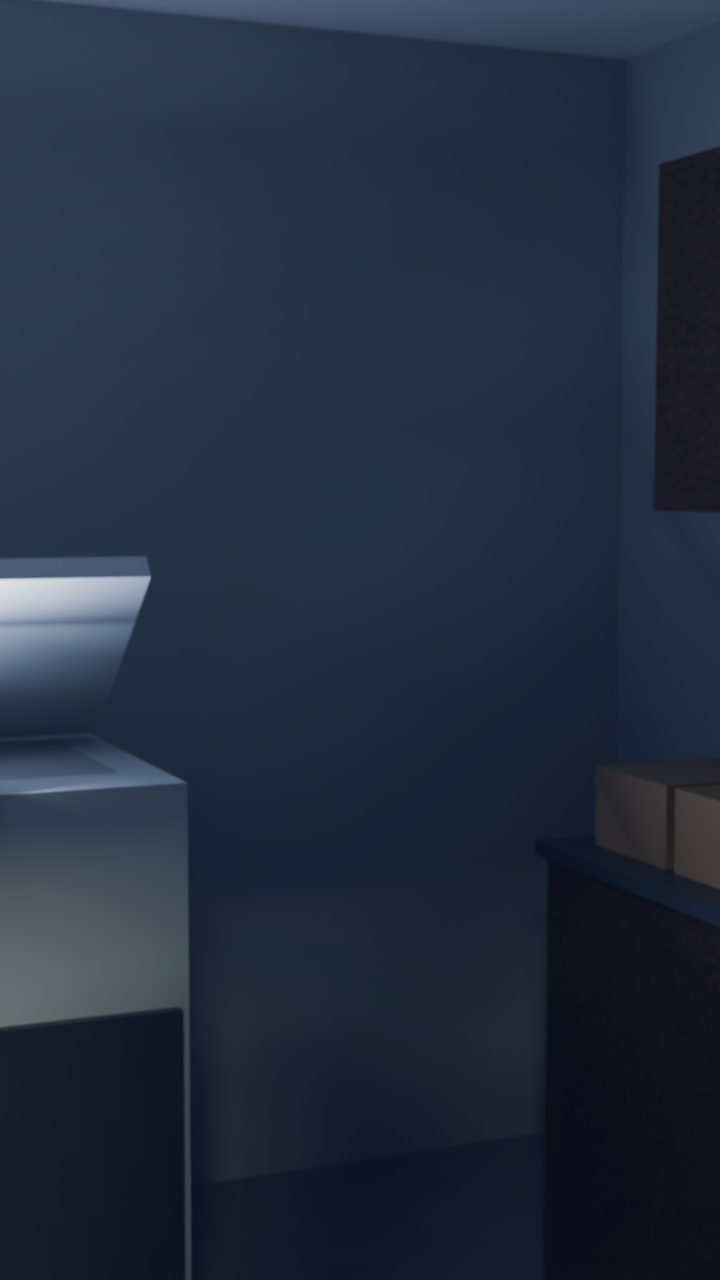
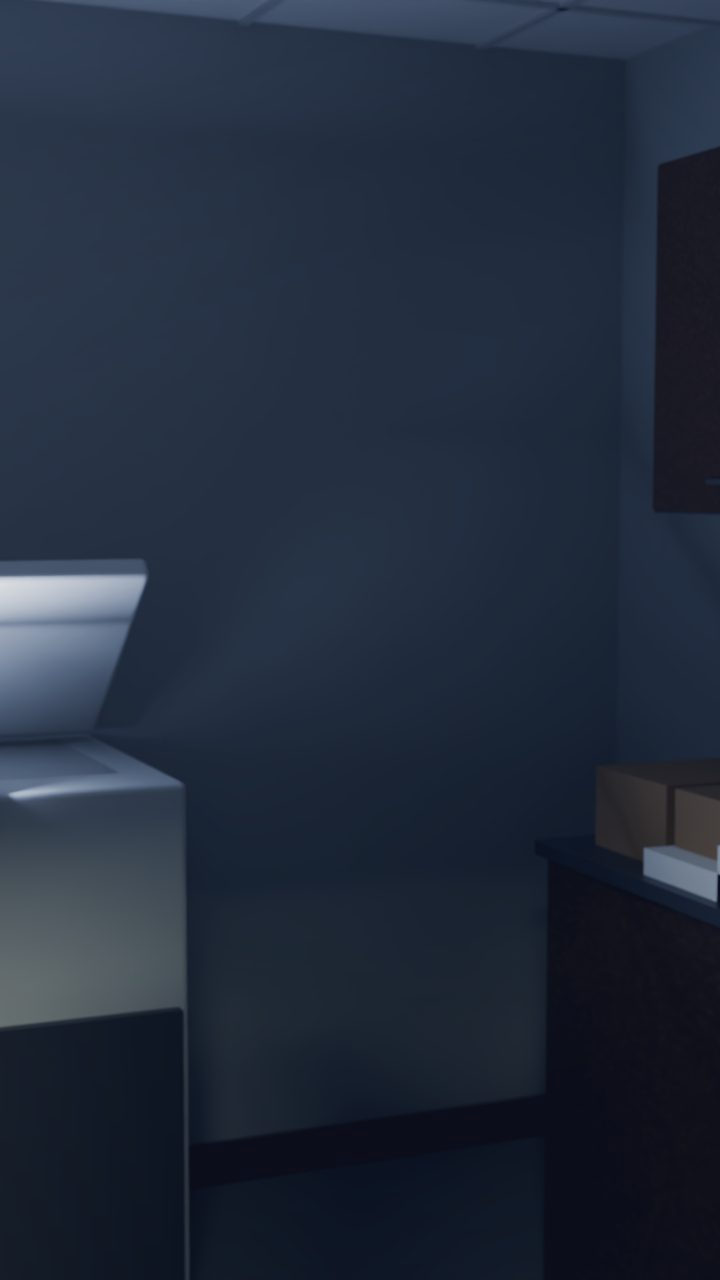
影印室兩場照新房間重算：南牆內面改影印室的漆（設計師 #471 審查 2）
- 影印室朝走廊那面牆原本用了走廊的藍灰漆（#7f8fa0），改成跟其他三面一樣的 #a3a6a3（場景檔在 project-files）。
- 戴文那張和倫理三版用同一份場景檔重算；面板是裝置，兩張共用一個權重，照新探針重解成 0.097，倫理版溢光 0.387，兩張頭部都 10:1。
- 倫理版曝光補回權重降掉的 0.67 檔（exp 6.27）。兩張都看得到的西牆 ΔE76 5.9。
- 正面的戴文頭髮也改成一顆顆的捲，跟側面同一個做法。

Claude-Session: https://claude.ai/code/session_01G8FC15sLW17Be3jTGciJcG

diff --git a/tools/standee/figs.py b/tools/standee/figs.py
@@ -418,8 +418,8 @@ def curly(hc, w=0.17, top=0.15, seed=0.0):
         a = math.pi * (-0.12 + 1.24 * i / 21)                     # from the right ear over the top to the left ear
         pts.append((hc[0] + math.cos(a) * w / 2 * 1.06, hc[1] + 0.012 + math.sin(a) * top))
     pts += [(hc[0] - w * 0.46, hc[1] - 0.035), (hc[0] - w * 0.3, hc[1] + 0.05), (hc[0], hc[1] + 0.07), (hc[0] + w * 0.3, hc[1] + 0.05), (hc[0] + w * 0.46, hc[1] - 0.035)]
-    pts = pts[:22][::-1] + pts[22:][::-1]
-    return [wavy(pts, 0.01, len(pts), seed)]
+    # 11-27 (#471): the outer edge as separate curls, the same curls() as the profile, so the two copy-room shots read as one head
+    return [curls(pts[:22][::-1], 0.03, seed=seed) + pts[22:][::-1]]
 
 def devin_front():
     # Ep2 ethics: Devin turned to the door, facing the camera. Narrow, wide head (cast), 24; short fluffy curls, big round glasses
